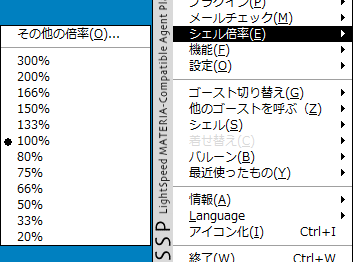
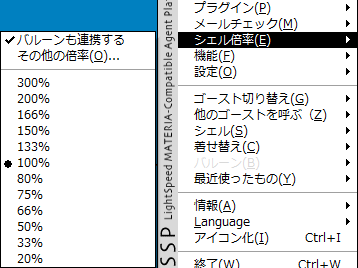
SSPHelp: SSP2.3.55変更分反映。indexページにヘルプの対応するSSPのバージョン記載

diff --git a/ssphelp/howto-rclick.html b/ssphelp/howto-rclick.html
@@ -123,9 +123,22 @@
 
 <h3 id="menuitem8">8,シェル倍率</h3>
 <p>
-	<img src="image/howto-rclick/4.png" width="353" height="262" alt="シェル倍率サブメニュー" />
+	<img src="image/howto-rclick/4.png" width="358" height="268" alt="シェル倍率サブメニュー" />
 	<br />キャラクターの画像（<a href="reference.html#x30b7-x30a7-x30eb">シェル</a>）を拡大・縮小します。
 </p>
+<dl>
+	<dt>バルーンも連携する</dt>
+	<dd>
+		ONになっている場合、シェルの拡大・縮小率に応じてバルーンも拡大・縮小されます。
+		<br />なおこの機能は多少処理が重い機能であるため、描画が重いと感じた場合、この機能が不要であればOFFにしてみてください。
+	</dd>
+
+	<dt>その他の倍率</dt>
+	<dd>
+		任意の倍率を入力して指定するためのダイアログボックスを開きます。
+		<br />X・Y方向それぞれの倍率を指定可能です。
+	</dd>
+</dl>
 
 <h3 id="menuitem9">9,機能</h3>
 <p>

diff --git a/ssphelp/index.html b/ssphelp/index.html
@@ -67,6 +67,8 @@
 <p>SSPはユーザーの皆様の不具合報告と要望がたよりです。<br />
 何か変なところを見つけたらぜひ気軽に報告してください。</p>
 
+<h2>このヘルプの対応バージョン</h2>
+<p>SSP 2.3.55</p>
 
 <p><a href="http://www.w-frontier.com/" target="_blank"><img src="image/ezHTML_b.gif" width="80" height="15" alt="次世代高機能HTML/XHTMLエディタ「ez-HTML」(Web Frontier)" /> Created by ez-HTML</a></p>
       </div>
